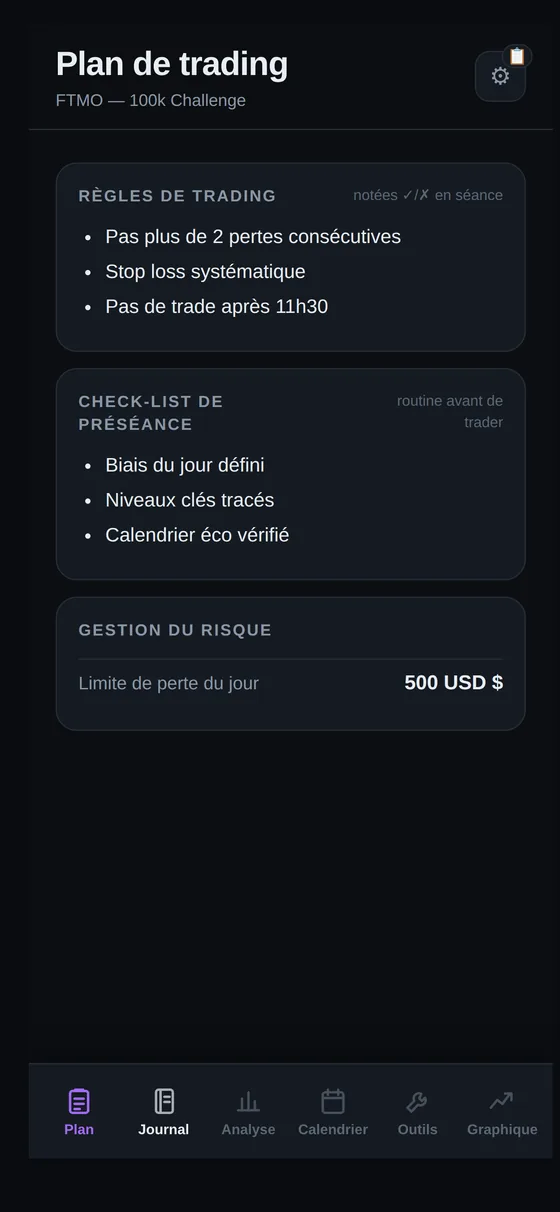
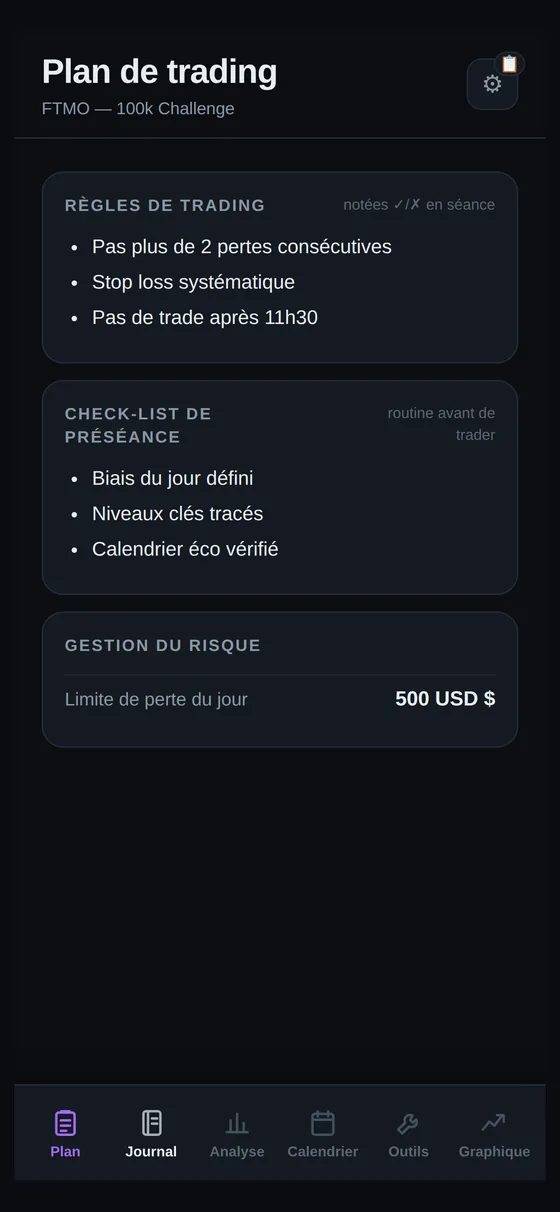
Centre les mockups mobiles et raccourcit les paragraphes trop longs (#14)
- Régénère les captures mobiles (Analyse, Journal, Plan, Outils) avec
  une marge symétrique centrée au lieu d'un décalage vers le bas-droite
  : la bande noire à gauche disparaît, le contenu est centré dans le
  cadre du téléphone.
- Réduit encore le rayon des coins du cadre téléphone pour garder les
  titres ("Analyse", "Journal"...) hors de la zone arrondie malgré la
  marge plus petite.
- Raccourcit nettement les paragraphes les plus denses : le texte du
  "principe" (4 paragraphes -> 1 accroche + 2 phrases courtes), les
  3 étapes de la section cinématique, le bloc scalping/personnalisation
  et deux lignes de la section structure.

Claude-Session: https://claude.ai/code/session_015fHU3i8EwiKPeZ7bY8FUcy

diff --git a/index.html b/index.html
@@ -198,9 +198,8 @@
     <div class="pitch-grid">
       <div class="pitch-copy rv">
         <p class="big">Un journal de trading qui ne collecte que des statistiques décrit un <b>symptôme</b>. Il te dit que tu as perdu. Il ne te dit jamais <b>pourquoi</b>.</p>
-        <p>Les journaux déjà intégrés à ton broker, comme la plupart des trackers de performance, affichent toutes les données chiffrées imaginables : P&amp;L, winrate, R moyen, drawdown, expectancy. Ces chiffres sont exacts — et ils n'expliquent rien. Tant que le trader ne s'auto-évalue pas, aucune de ces courbes ne change son comportement en séance.</p>
-        <p>Edgio part de l'autre bout. Avant de compter tes gains, tu notes <b>ton état</b> : ta discipline d'exécution, ton respect du plan, ta maîtrise émotionnelle, ton humeur avant et après la séance, et si oui ou non tu as tenu chacune des règles que tu t'es fixées. C'est ce que veut dire un <b>journal de trading orienté psychologie et émotion</b> : la donnée d'entrée, c'est l'humain.</p>
-        <p>Ensuite seulement, l'application fait le travail que personne ne fait à ta place : elle <b>croise</b> tes notes comportementales avec tes résultats chiffrés. C'est ça, l'<b>analyse comportementale du trading</b> — voir en face l'écart de résultat entre tes séances disciplinées et tes séances impulsives, savoir quelle règle te coûte le plus cher quand tu l'enfreins, et identifier l'axe sur lequel tu as le plus à gagner avant même de changer de stratégie.</p>
+        <p>Ton broker t'affiche le P&amp;L, le winrate, le R moyen — des chiffres exacts qui n'expliquent rien tant que tu ne t'auto-évalues pas. Edgio note d'abord <b>l'humain</b> : discipline, respect du plan, maîtrise émotionnelle, humeur, règles tenues ou non. C'est ça, un <b>journal de trading orienté psychologie et émotion</b>.</p>
+        <p>L'app croise ensuite ces notes avec tes résultats — <b>l'analyse comportementale du trading</b> — pour désigner la règle qui te coûte le plus cher et l'axe sur lequel tu as le plus à gagner.</p>
         <p class="kicker">Tu ne corriges pas une courbe. Tu corriges un comportement — et la courbe suit.</p>
       </div>
 
@@ -237,7 +236,7 @@
         <div class="cine-state" data-state="0">
           <div class="num">01 — Avant</div>
           <h3>Tes règles, <span class="grad-text">écrites noir sur blanc.</span></h3>
-          <p>Ton plan de trading et tes règles personnelles restent sous les yeux. Une check-list de préséance personnalisable cadre ta routine : biais du jour, niveaux tracés, calendrier éco vérifié. Ce que tu t'engages à tenir est défini avant l'ouverture, pas improvisé en séance.</p>
+          <p>Ton plan et tes règles restent sous les yeux, et une check-list de préséance cadre ta routine. Rien n'est improvisé en séance.</p>
           <div class="tags">
             <span>Plan de trading</span>
             <span>Règles personnelles</span>
@@ -255,7 +254,7 @@
         <div class="cine-state" data-state="1">
           <div class="num">02 — Pendant &amp; après</div>
           <h3>Tu notes <span class="grad-text">le trader.</span></h3>
-          <p>Séance après séance, tu coches les règles tenues et celles enfreintes, tu poses ton humeur avant et après, et tu t'auto-évalues sur trois axes comportementaux : exécution, respect du plan, maîtrise émotionnelle. Le journal de fin de séance accueille tes notes libres — un assistant d'écriture IA t'aide à formuler ce que tu as vécu.</p>
+          <p>Tu coches tes règles, poses ton humeur, et t'auto-évalues sur trois axes. Pour le reste, un assistant d'écriture IA t'aide à formuler ta séance.</p>
           <div class="tags">
             <span>Auto-évaluation</span>
             <span>Humeur avant / après</span>
@@ -273,7 +272,7 @@
         <div class="cine-state" data-state="2">
           <div class="num">03 — Le croisement</div>
           <h3>L'app te sort <span class="grad-text">la cause.</span></h3>
-          <p>La page Analyse met tes notes comportementales en face de tes résultats. Ce que ça donne concrètement : la règle qui te coûte le plus cher quand tu l'enfreins, l'écart de résultat entre check-list complète et incomplète, l'effet de ton humeur, et l'axe sur lequel tu as le plus à gagner.</p>
+          <p>La page Analyse met tes notes en face de tes résultats : la règle qui te coûte le plus cher, et l'axe sur lequel tu as le plus à gagner.</p>
           <div class="tags">
             <span class="win">Toutes règles respectées</span>
             <span class="loss">≥ 1 règle enfreinte</span>
@@ -445,7 +444,7 @@
     <div class="row rv">
       <div class="row-txt">
         <h3>Le scalping n'attend pas un journal détaillé</h3>
-        <p>Quand une séance compte 10, 20 ou 30 trades, s'arrêter pour rédiger après chacun casse le rythme. Edgio propose une <b>grille de notation ultra-rapide</b> : un tap pour marquer un trade gagnant ou perdant, un compteur de progression et un ratio gagnants/perdants qui se mettent à jour en direct. De quoi garder le contrôle et savoir exactement où tu en es, séance après séance, sans jamais lâcher ton écran de trading.</p>
+        <p>À 30 trades dans la journée, rédiger après chacun casse le rythme. Edgio propose une <b>grille de notation ultra-rapide</b> : un tap pour marquer un trade gagnant ou perdant, avec un compteur et un ratio à jour en direct. Tu gardes le contrôle sans lâcher ton écran.</p>
       </div>
       <figure class="shot">
         <div class="shot-bar" aria-hidden="true"><i></i><i></i><i></i><span>Edgio — Séance de scalping</span></div>
@@ -454,7 +453,7 @@
       </figure>
     </div>
 
-    <p class="styles-note rv">Et pour tout le reste : les <b>objectifs du jour</b> s'écrivent en texte libre, la <b>check-list de préséance</b> se compose entièrement à ta main, et tes <b>règles personnelles</b> reflètent ta propre stratégie. Edgio est <b>ultra-personnalisable</b> — à toi de le façonner à ton trading, pas l'inverse.</p>
+    <p class="styles-note rv">Objectifs du jour en texte libre, check-list et règles à ta main : Edgio est <b>ultra-personnalisable</b>, à toi de le façonner à ton trading.</p>
   </div>
 </section>
 
@@ -485,7 +484,7 @@
       <div class="row rv">
         <div class="row-txt">
           <h3>Multi-comptes &amp; tableau de bord</h3>
-          <p>Compte réel, challenge prop firm, démo : chaque compte a son propre journal, son calendrier et ses statistiques, avec une <b>vue cumulée tous comptes</b>. Sur ordinateur, le tableau de bord se personnalise — tu ajoutes, déplaces et redimensionnes les widgets (comptes, calendrier cumulé, sessions de marché…).</p>
+          <p>Compte réel, prop firm, démo : chaque compte a son journal, avec une <b>vue cumulée tous comptes</b>. Sur ordinateur, le tableau de bord se personnalise par widgets.</p>
         </div>
         <figure class="shot">
           <div class="shot-bar" aria-hidden="true"><i></i><i></i><i></i><span>Edgio — Journal</span></div>
@@ -545,7 +544,7 @@
       <div class="row reverse rv">
         <div class="row-txt">
           <h3>Une boîte à outils complète</h3>
-          <p>Fiche contrat détaillant les spécifications d'un instrument, minuteur de séance, horloges des places boursières mondiales (Sydney, Tokyo, Londres, New York) et calculatrices de trading — taille de position, valeur du point. Tout ce qu'on garde d'habitude ouvert dans dix onglets différents, réuni dans l'app.</p>
+          <p>Fiche contrat, minuteur de séance, horloges des places mondiales (Sydney, Tokyo, Londres, New York) et calculatrices de trading. Tout ce qu'on garde d'habitude dans dix onglets, réuni dans l'app.</p>
         </div>
         <figure class="shot">
           <div class="shot-bar" aria-hidden="true"><i></i><i></i><i></i><span>Edgio — Outils</span></div>

diff --git a/assets/css/style.css b/assets/css/style.css
@@ -205,7 +205,7 @@ h1,h2,h3{font-family:var(--font-display);font-weight:800;letter-spacing:-.03em;l
 /* phone component (shared) */
 .phone{
   position:relative;width:290px;aspect-ratio:1170/2532;
-  border-radius:32px;padding:11px;
+  border-radius:26px;padding:11px;
   background:linear-gradient(160deg,#2a2d3a,#0c0d13);
   box-shadow:0 40px 90px -30px rgba(0,0,0,.8),0 0 0 1px rgba(255,255,255,.06),inset 0 0 0 1px rgba(255,255,255,.04);
   will-change:transform;
@@ -213,7 +213,7 @@ h1,h2,h3{font-family:var(--font-display);font-weight:800;letter-spacing:-.03em;l
 /* Encoche retirée : les captures ont leur propre en-tête, on garde l'écran plein
    pour ne jamais masquer le titre de l'app. */
 .phone-screen{
-  position:relative;width:100%;height:100%;border-radius:22px;overflow:hidden;background:#0a0b10;
+  position:relative;width:100%;height:100%;border-radius:15px;overflow:hidden;background:#0a0b10;
 }
 .phone-screen img{
   position:absolute;inset:0;width:100%;height:100%;object-fit:cover;object-position:top center;
